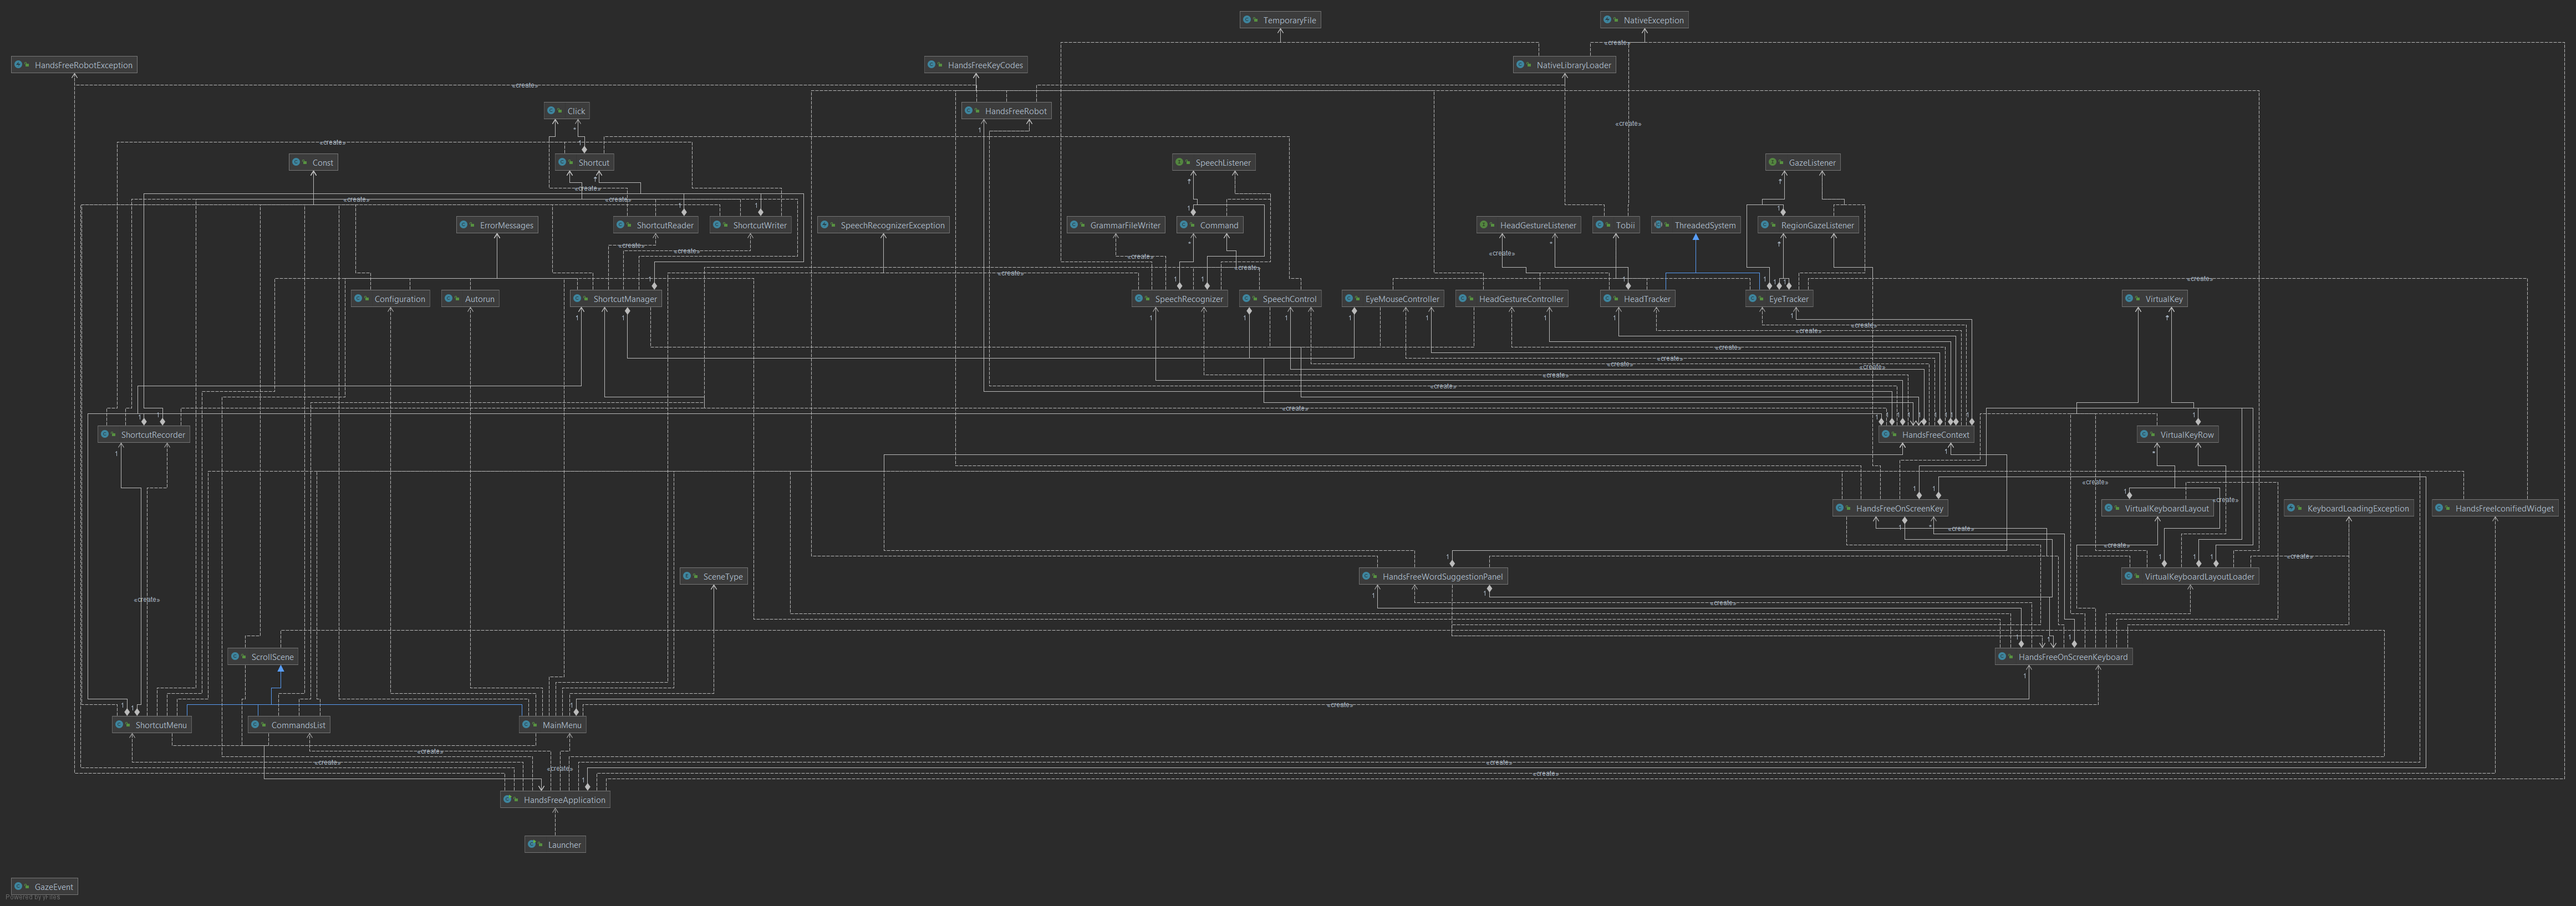
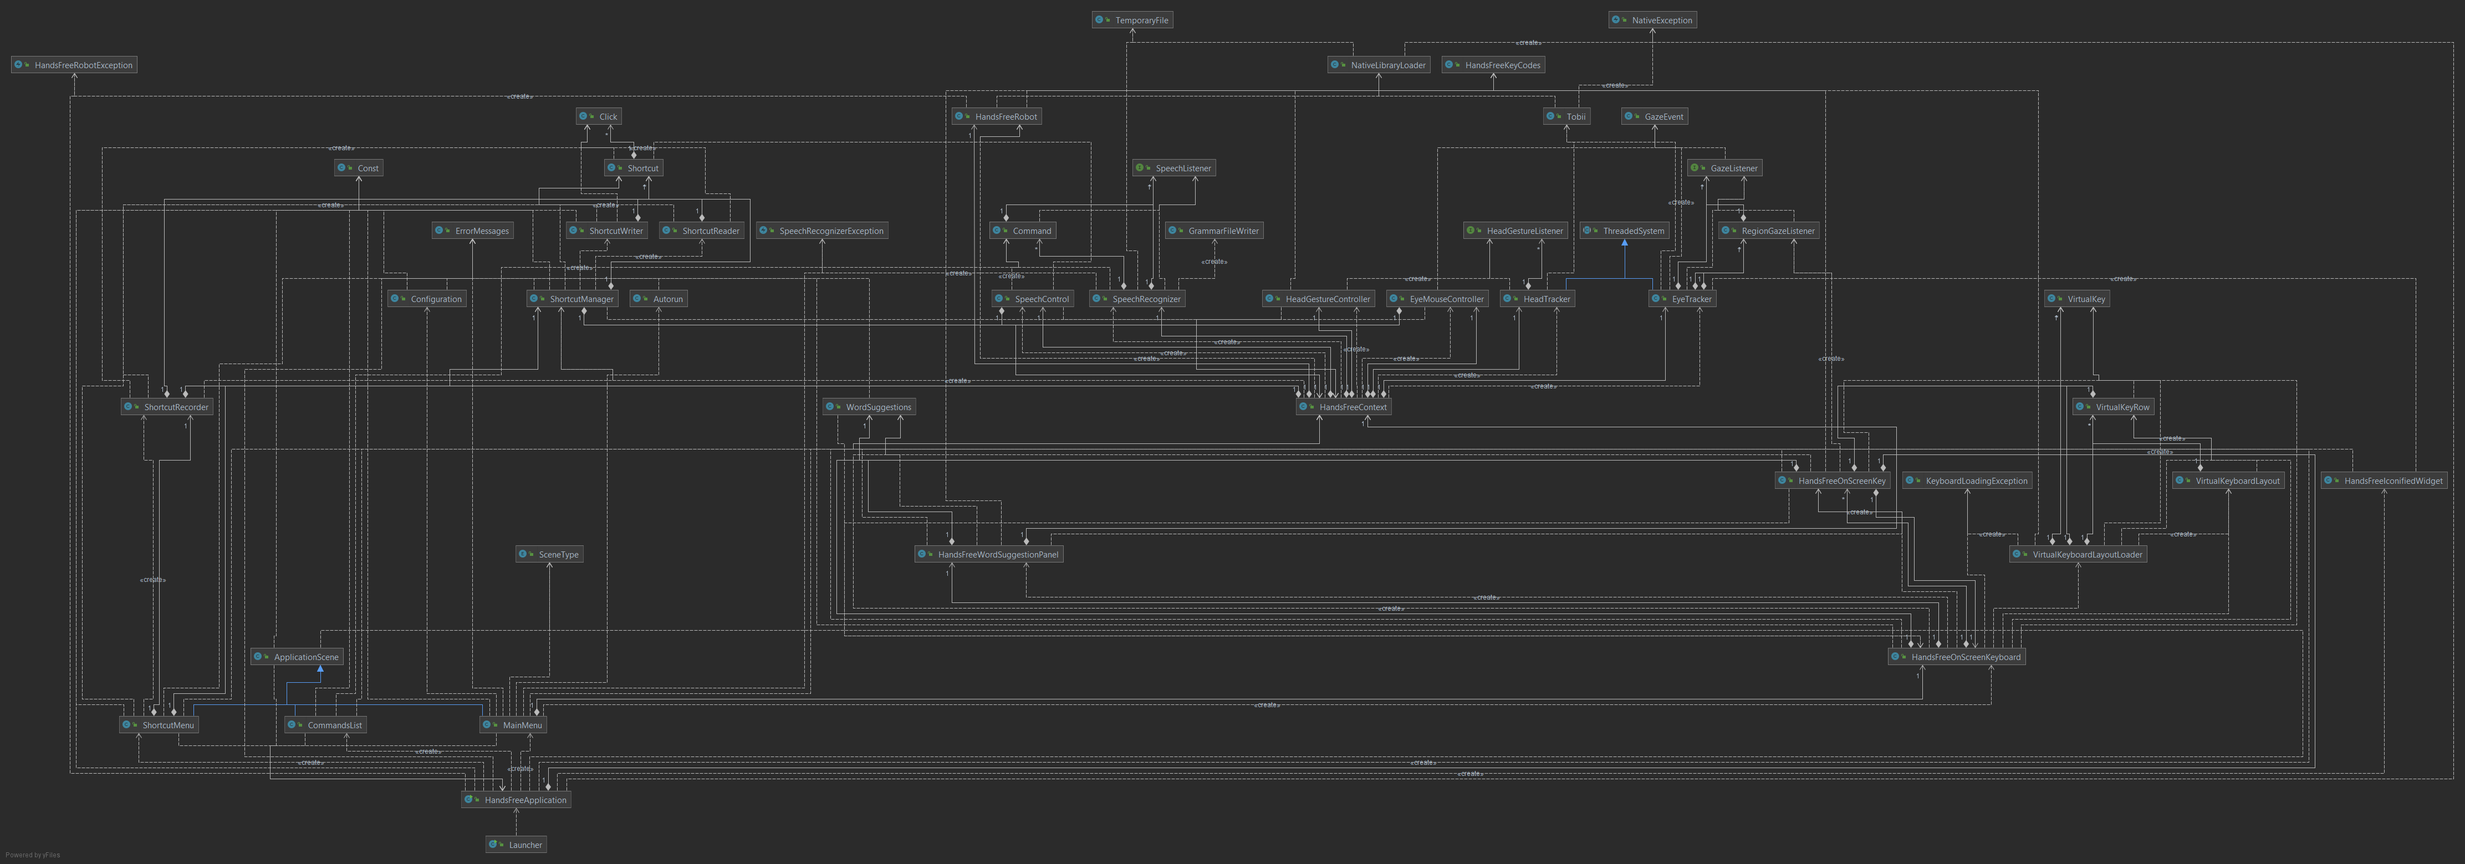
Added the journal and class descriptions
Added a description to every class in the classes file, updated the journal and updated the application class diagram

diff --git a/docs/documentation/classes/classes.md b/docs/documentation/classes/classes.md
@@ -1,117 +1,119 @@
 * Application
+    * Launcher: The launcher which starts the application
+    * HandsFreeApplication: The application itself which manages the scene or for example the close- or minimize requests
+    * HandsFreeContext: Provides common control elements to other classes
+    * Const: All the common constants
     * Tobii
-    * Launcher
-    * HandsFreeApplication
-    * HandsFreeContext
-    * Const
+        * Tobii: Gets the eye- and head tracking data from the tracker
     * Config
-        * Autorun
-        * Configuration
+        * Autorun: Writes a script into the autorun folder, so that the app gets started on the start of windows
+        * Configuration: Saves the toggle state of the buttons, so that they get saved when you close the app and
+          reloaded when you reopen it
     * Control
-        * HandsFreeKeyCodes
-        * HandsFreeRobot
-        * ThreadedSystem
+        * HandsFreeKeyCodes: Constants for all the key codes to read the keyboard layout
+        * HandsFreeRobot: To control the mouse and click buttons
+        * ThreadedSystem: To split parts of the program from other parts, so that they both can continue running
         * EyeTracker
-            * EyeTracker
-            * EyeMouseController
-            * GazeEvent
-            * GazeListener
-            * RegionGazeListener
+            * EyeTracker: The eye tracker which controls the tracking of your eyes
+            * EyeMouseController: The controller which controls the mouse to where you look on the screen
+            * GazeEvent: One event that the listener "records" where you can get the position of your eyes and which eyes are open or closed
+            * GazeListener: The listener which tracks your eye movement 
+            * RegionGazeListener: The listener which tracks if and how long you look at a specific region of the screen
         * HeadTracker
-            * HeadTracker
-            * HeadGestureController
-            * HeadGestureListener
+            * HeadTracker: The head tracker which tracks your head rotation
+            * HeadGestureController: The controller which controls what to do when you nod or shake your head
+            * HeadGestureListener: The listener which listens to if you nod or shake your head
         * Shortcuts
-            * Shortcut
-            * Click
-            * ShortcutManager
-            * ShortcutReader
-            * ShortcutRecorder
-            * ShortcutWriter
+            * Shortcut: A list of clicks which can be executed again
+            * Click: A click which can be recorded to make a shortcut
+            * ShortcutManager: The manager of all the shortcuts
+            * ShortcutReader: The reader which reads the shortcuts from the files
+            * ShortcutRecorder: The recorder which records the clicks on the screen you make
+            * ShortcutWriter: The writer which writes the shortcuts to the files
         * SpeechControl
-            * SpeechControl
-            * Command
-            * GrammarFileWriter
-            * SpeechListener
-            * SpeechRecognizer
+            * SpeechControl: The speech controller which controls where all the commands get created
+            * Command: A command which can be executed
+            * GrammarFileWriter: The writer which writes the commands, and the shortcuts to the grammar file
+            * SpeechListener: The listener which listens if you say something
+            * SpeechRecognizer: The speech recognizer which recognizes what you say
     * Error
-        * ErrorMessages
-        * HandsFreeRobotException
-        * KeyboardLoadingException
-        * NativeException
-        * SpeechRecognizerException
+        * ErrorMessages: All the error messages
+        * HandsFreeRobotException: An exception to throw when the robot doesn't work
+        * KeyboardLoadingException: An exception to throw when the loading of the keyboard doesn't work
+        * NativeException: An exception to throw when the loading of a native library doesn't work
+        * SpeechRecognizerException: An exception to throw when the speech recognition doesn't work
     * GUI
-        * HandsFreeIconifiedWidget
-        * OnScreenKeyboard  
-            * HandsFreeOnScreenKeyBoard
-            * HandsFreeOnScreenKey
-            * HandsFreeWordSuggestionPanel
-            * VirtualKey
-            * VirtualKeyboardLayout
-            * VirtualKeyboardLayoutLoader
-            * VirtualKeyRow
+        * HandsFreeIconifiedWidget: The iconified widget when you minimize the app
+        * OnScreenKeyboard
+            * HandsFreeOnScreenKeyBoard: The gui of the on-screen keyboard
+            * HandsFreeOnScreenKey: The gui of a key of the on-screen keyboard
+            * HandsFreeWordSuggestionPanel: The gui of the suggestion panel above the on-screen keyboard
+            * VirtualKey: The logic behind a key of the on-screen keyboard
+            * VirtualKeyboardLayout: The keyboard layout of the on-screen keyboard
+            * VirtualKeyboardLayoutLoader: The loader which loads the keyboard layout from the file
+            * VirtualKeyRow: A row of virtual keys from a keyboard-layout
     * Scenes
-        * ApplicationScene
-        * SceneType
-        * MainMenu
-        * CommandsList  
-        * ShortcutMenu
+        * ApplicationScene: The parent scene with all the common content
+        * SceneType: The list of the scenes
+        * MainMenu: The main menu scene
+        * CommandsList: The commands list scene
+        * ShortcutMenu: The shortcut menu scene
     * Utils
-        * NativeLibraryLoader
-        * TemporaryFile
+        * NativeLibraryLoader: A util, so that native libraries can be loaded easier
+        * TemporaryFile: A util, so that things can get written into temporary files
 * Common
     * Error
-        * Error
+        * Error: To report errors and amongst other things, write them in log files
     * GUI
-        * WindowDragController
-        * Colors
-        * HandsFreeFont
-        * HandsFreeCheckBox
-        * HandsFreeLabel
-        * HandsFreeListCell
-        * HandsFreeListView
-        * HandsFreeScene
-        * HandsFreeSceneConfiguration
-        * HandsFreeScrollBar
-        * HandsFreeScrollCallback
-        * HandsFreeScrollPane
-        * HandsFreeStageDecoration
-        * HandsFreeTextField
+        * WindowDragController: The controller which makes it possible to drag the window around
+        * Colors: Constants for all the colors
+        * HandsFreeFont: The font which is used in the app
+        * HandsFreeCheckBox: A checkbox in the HandsFree style
+        * HandsFreeLabel: A label in the HandsFreeStyle
+        * HandsFreeListCell: A list cell in the HandsFreeStyle
+        * HandsFreeListView: A list in the HandsFreeStyle
+        * HandsFreeScene: A scene in the HandsFreeStyle
+        * HandsFreeSceneConfiguration: The configuration, for example the title of a scene
+        * HandsFreeScrollBar: A scrollbar in the HandsFreeStyle
+        * HandsFreeScrollListener: The listener which tracks how much you scroll, so that the scroll pane knows when to move the content
+        * HandsFreeScrollPane: A pane with a scrollbar and the content which should be scrollable
+        * HandsFreeStageDecoration: The decoration for the stage, for example the minimize- or the close button
+        * HandsFreeTextField: A text field in the HandsFreeStyle
         * Button
-            * HandsFreeButton
-            * HandsFreeButtonPalette
-            * HandsFreeIconButton
-            * HandsFreeTextButton
-            * HandsFreeToggleButton
+            * HandsFreeButton: The parent button with the common things of all the buttons
+            * HandsFreeButtonPalette: The different color configurations for a button
+            * HandsFreeIconButton: A button with an icon on it, for example a back button with an arrow icon on it
+            * HandsFreeTextButton: A normal button in the HandsFreeStyle
+            * HandsFreeToggleButton: A button which you are able to toggle on or off
         * Dialog
-            * HandsFreeDialog
-            * HandsFreeConfirmDialog
-            * HandsFreeInputDialog
-            * HandsFreeMessageDialog
+            * HandsFreeDialog: The parent dialog with the common things of all the dialogs
+            * HandsFreeConfirmDialog: A dialog with two buttons, one to confirm and one to deny
+            * HandsFreeInputDialog: A dialog with an input field
+            * HandsFreeMessageDialog: A dialog with only one button, to close it, to display messages
     * Scenes
-        * ISceneType
-        * Navigator
+        * ISceneType: The parent scene type of all the scene types
+        * Navigator: The navigator to be able to switch from one scene to another
 * Installer
-    * Launcher
-    * InstallerApplication
-    * Const
+    * Launcher: The launcher which starts the application
+    * InstallerApplication: The application itself which manages the scene or for example the close- or minimize requests
+    * Const: All the common constants
     * Error
-        * ErrorMessages
+        * ErrorMessages: All the error messages
     * Scenes
-        * InstallerScene
-        * SceneType
-        * Start
-        * Shortcut
-        * DirectoryChooser
-        * End
+        * InstallerScene: The parent scene with all the common content
+        * SceneType: The list of the scenes
+        * Start: The start scene
+        * Shortcut: The scene where you choose if you want shortcuts
+        * DirectoryChooser: The scene where you choose the directory
+        * End: The end scene
 * Uninstaller
-    * Launcher
-    * UninstallerApplication
-    * Const
+    * Launcher: The launcher which starts the application
+    * UninstallerApplication: The application itself which manages the scene or for example the close- or minimize requests
+    * Const: All the common constants
     * Error
-        * ErrorMessages
+        * ErrorMessages: All the error messages
     * Scenes
-        * UninstallerScene
-        * SceneType
-        * Start
-        * End
+        * UninstallerScene: The parent scene with all the common content
+        * SceneType: The list of the scenes
+        * Start: The start scene
+        * End: The end scene

diff --git a/docs/journals/alain/2021-05-26.md b/docs/journals/alain/2021-05-26.md
@@ -2,10 +2,17 @@
 ## Tagesziele
 * Dieses Journal schreiben
 * Daily Scrum
+* Uninstaller machen
+* Dokumentation ergänzen
 ## Erreichte Tagesziele
 * Dieses Journal schreiben
 * Daily Scrum
+* Uninstaller machen
+* Dokumentation ergänzen
 ## Noch offen
 * \-
 ## Reflexion
-*
+* Heute habe ich den ganzen Morgen am Uninstaller gearbeitet, dieser wurde dann auch fertig
+* Zudem habe ich die Dokumentation überarbeitet
+    * Ich habe die Klassendiagramme der einzelnen Unterprojekte gemacht
+    * Und ebenfalls eine Auflistung aller Klassen mit einer kurzen Beschreibung dahinter hinzugefügt
